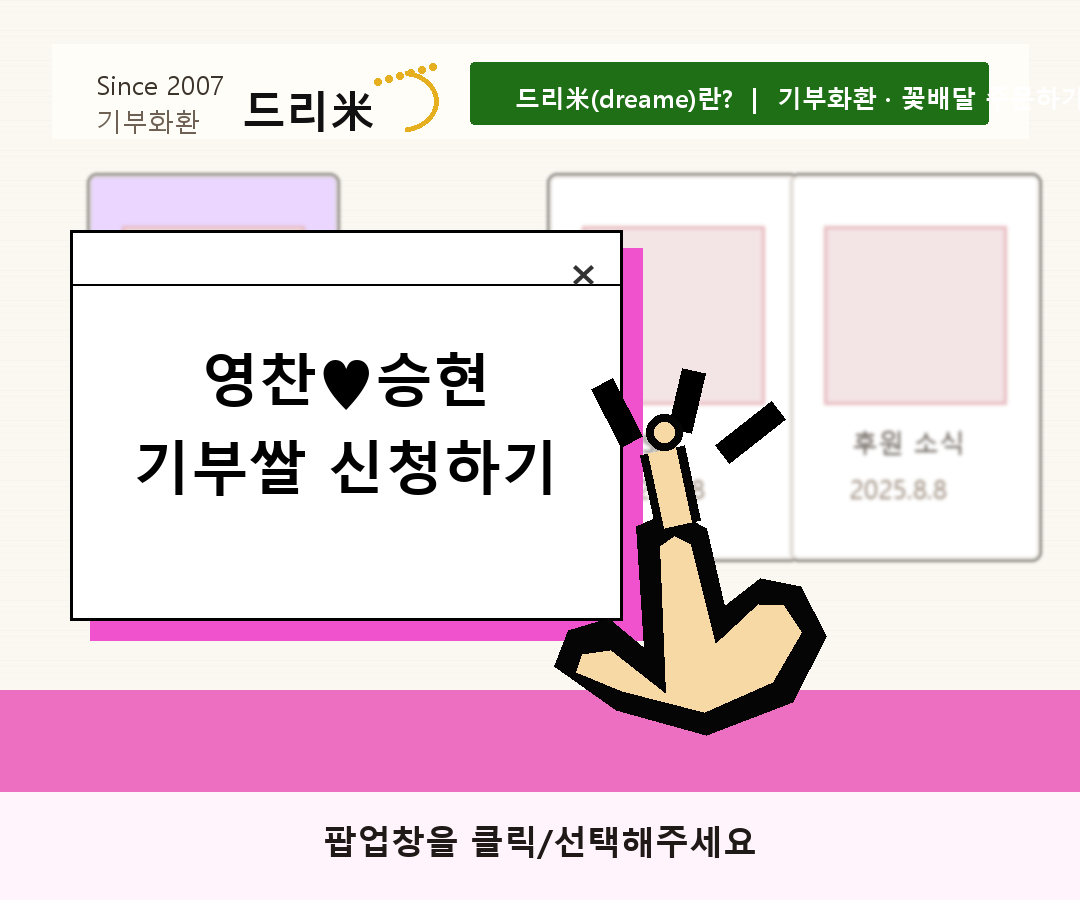
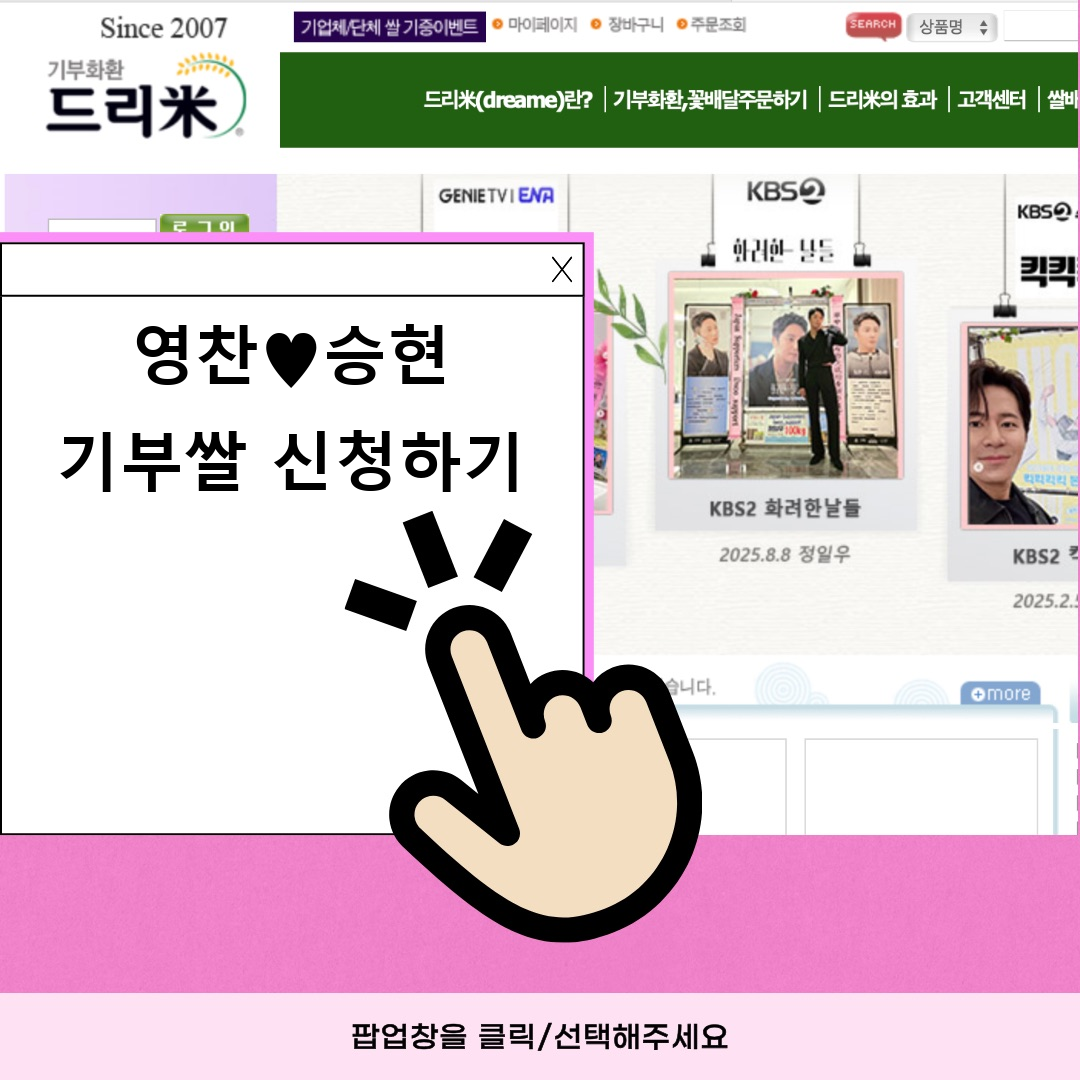
Use original Dreame guide image

diff --git a/src/invitation-data.js b/src/invitation-data.js
@@ -197,7 +197,7 @@ export const invitationData = {
       "축하 화환은 정중히 사양하고, 보내주시는 마음은 쌀 기부로 대신 나누려 합니다.",
     lines: ["두 사람의 이름으로 필요한 곳에 따뜻하게 전달하겠습니다.", "너른 마음으로 함께해 주셔서 감사합니다."],
     image: {
-      src: "./assets/images/rice-donation-guide.png?v=20260505-dreame-guide",
+      src: "./assets/images/rice-donation-guide.png?v=20260505-dreame-original-guide",
       alt: "영찬 승현 기부쌀 신청 안내",
     },
     ctaLabel: "기부쌀 신청하기",

diff --git a/index.html b/index.html
@@ -55,6 +55,6 @@
     </noscript>
 
     <script src="./config.js?v=20260329-naver-keyid"></script>
-    <script type="module" src="./src/app.js?v=20260505-dreame-donation"></script>
+    <script type="module" src="./src/app.js?v=20260505-dreame-original-guide"></script>
   </body>
 </html>

diff --git a/src/app.js b/src/app.js
@@ -1,4 +1,4 @@
-import { invitationData } from "./invitation-data.js?v=20260505-dreame-donation";
+import { invitationData } from "./invitation-data.js?v=20260505-dreame-original-guide";
 
 const app = document.querySelector("#app");
 const toast = document.querySelector("#toast");
